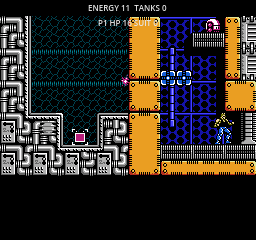
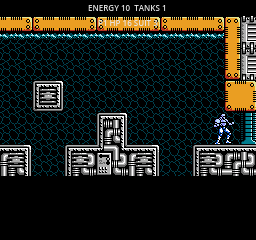
QA Nova PB2: p1.2 — запись и передача

diff --git a/docs/qa/reverse-2026-10-03/nova-pb2b.md b/docs/qa/reverse-2026-10-03/nova-pb2b.md
@@ -19,8 +19,8 @@
 | p0.5 | ☑ | [p0 целиком](../playthrough/p0-nova-pb2b/replay.json) | 10515 | повтор от p0.0; босс p6.0 также завершён |
 | p0.6 | ☑ | [p0 целиком](../playthrough/p0-nova-pb2b/replay.json) | 12019 | повтор от p0.0; босс p6.0 также завершён |
 | p1.0 | ☑ | [p1-nova-pb2b-energy](../playthrough/p1-nova-pb2b-energy/replay.json) | 1774 | обычный ввод; враги и урон; повтор цепочки |
-| p1.1 | ☑ | [p1-nova-pb2b-energy](../playthrough/p1-nova-pb2b-energy/replay.json) | 4401 | обычный ввод; враги и урон; костюм0; ожидание камеры на последней площадке; энергия11 после двери |
-| p1.2 | ☑ | [p1-nova-pb2b](../playthrough/p1-nova-pb2b/replay.json) | 4777 | обычный ввод; враги и урон; повтор цепочки |
+| p1.1 | ☑ | [p1-nova-pb2b-energy](../playthrough/p1-nova-pb2b-energy/replay.json) | 4401 | обычный ввод; враги и урон; повтор цепочки |
+| p1.2 | ☑ | [p1-nova-pb2b-energy](../playthrough/p1-nova-pb2b-energy/replay.json) | 5243 | обычный ввод; враги и урон; detour к штатному энерго-баку x80,y288; костюмы1/3; цепочка от p1.0 |
 | p1.3 | ☑ | [p1-nova-pb2b](../playthrough/p1-nova-pb2b/replay.json) | 5658 | обычный ввод; враги и урон; повтор цепочки |
 | p1.4 | ☑ | [p1-upper-nova-pb2b](../playthrough/p1-upper-nova-pb2b/replay.json) | 530 | обычный ввод; враги и урон; повтор цепочки |
 | p1.5 | ☑ | [p1-upper-nova-pb2b](../playthrough/p1-upper-nova-pb2b/replay.json) | 1680 | обычный ввод; враги и урон; повтор цепочки |
@@ -294,4 +294,10 @@ NPB-02 уже исправлен SPB2-02 (91c9729), повтор боя оста
 
 победа над $51 обычным вводом; HP минимум13; STAGE CLEAR; от p1.4. Запись `p1-upper-nova-pb2b`, штатный выход 5413.
 Последнее состояние: тик 5413, вход 54, [].
+Принято повтором playthrough.gd с начала записи; SCRIPT ERROR в стенде отсутствует.
+
+### Передача после p1.2 (продолжение 3)
+
+detour к штатному энерго-баку x80,y288; костюмы1/3; цепочка от p1.0. Запись `p1-nova-pb2b-energy`, штатный выход 5243.
+Последнее состояние: тик 5243, вход 10, [{'alive': True, 'energy': 10, 'life': 16, 'menu': 0, 'owned': 15, 'state': 0, 'status_mode': 3, 'sub': 4, 'suit': 3, 'vy': 0, 'x': 736, 'y': 127}].
 Принято повтором playthrough.gd с начала записи; SCRIPT ERROR в стенде отсутствует.
